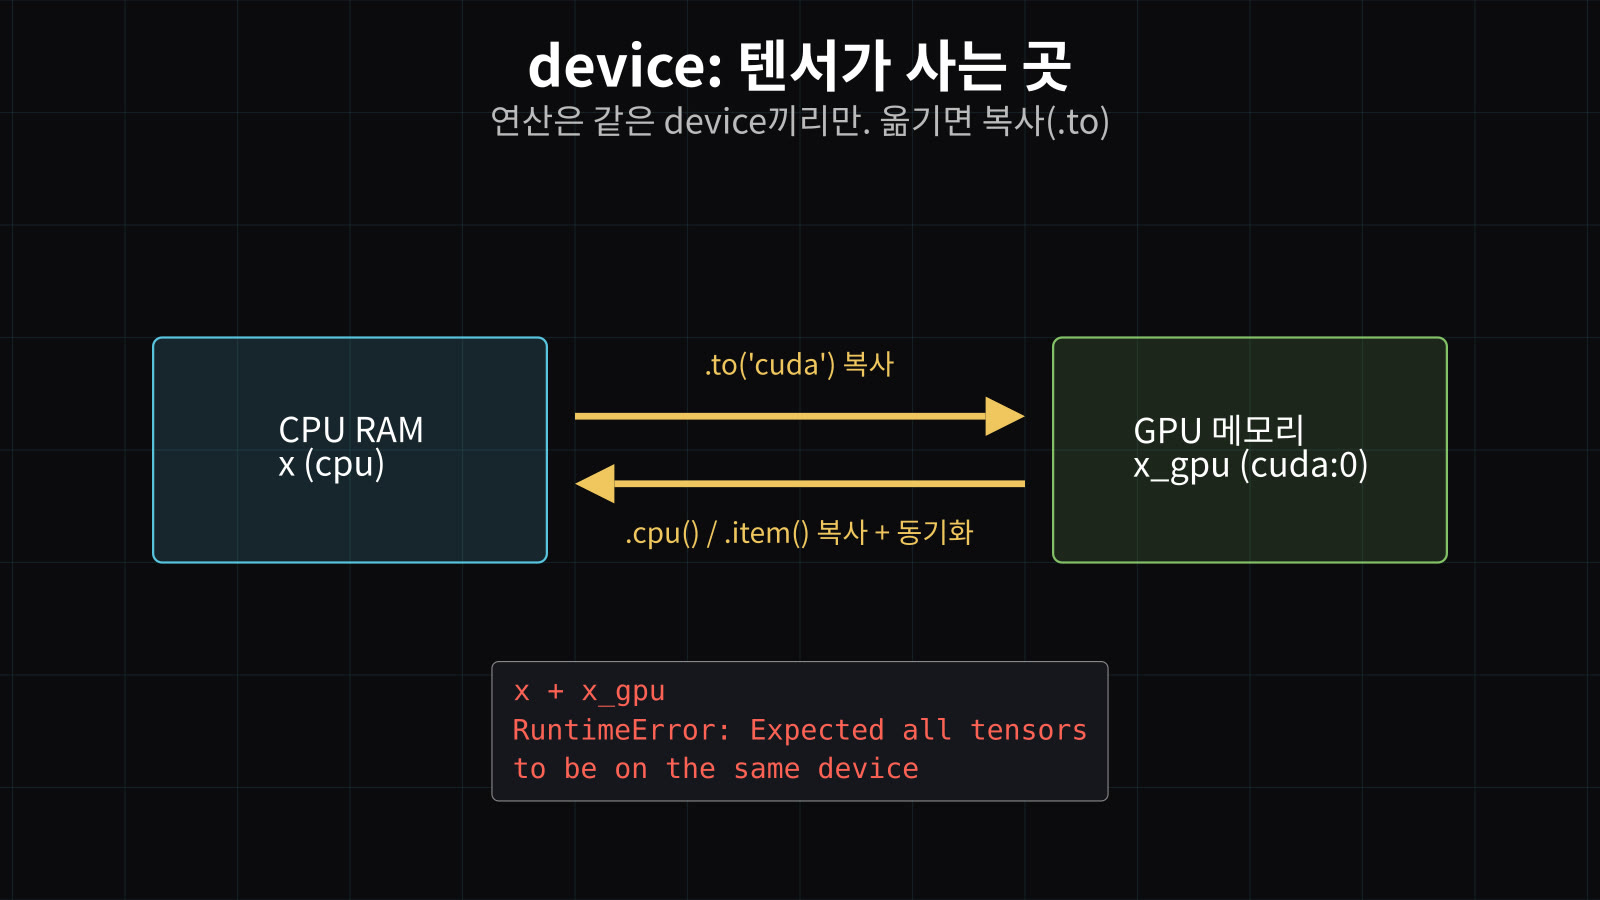
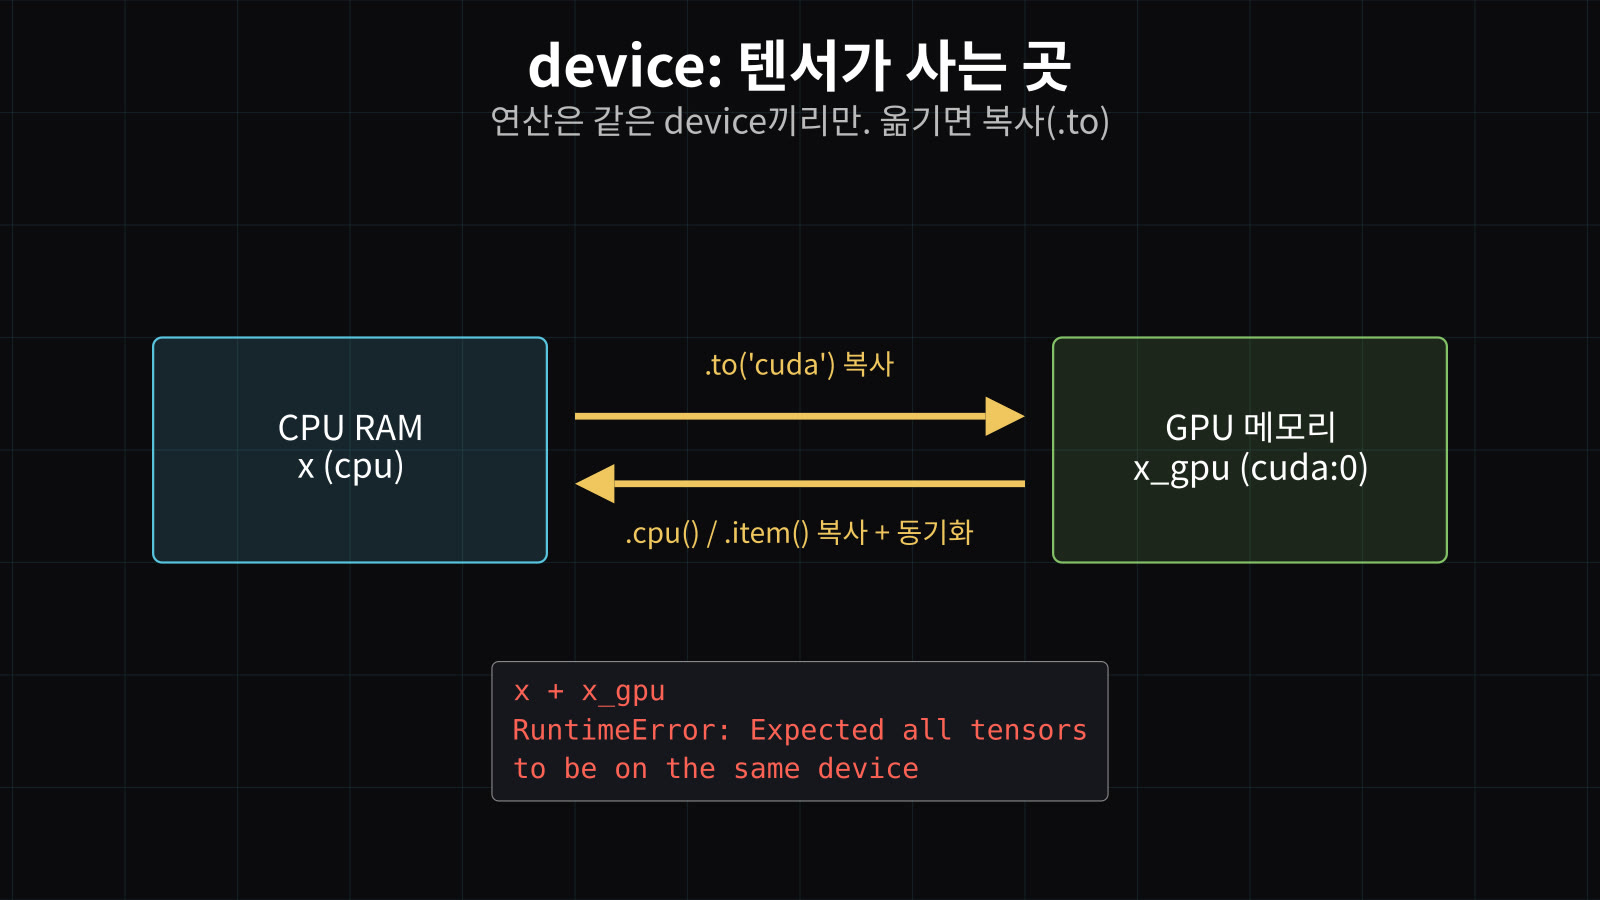
PyTorch series ch6-7, figure indentation fix, ch5 note

Changed region(s): [[0.6875, 0.4356, 0.875, 0.56], [0.1562, 0.4667, 0.2812, 0.5289]]

diff --git a/_posts/2026-10-25-pytorch-06-graph-capture.md b/_posts/2026-10-25-pytorch-06-graph-capture.md
@@ -1,0 +1,151 @@
+---
+layout: post
+title: "PyTorch 시리즈 6장 — 그래프 캡처: FX, Dynamo, torch.compile"
+date: 2026-10-25 21:06:00 +0900
+categories: [pytorch]
+tags: [pytorch, torch.compile, dynamo, fx]
+---
+
+> **PyTorch 시리즈** · [전체 목차](/blog/2026/10/25/pytorch-series/)  
+> ← 이전: [5. 커스텀 디바이스 백엔드 (PrivateUse1)](/blog/2026/10/25/pytorch-05-privateuse1/)  
+> → 다음: [7. torch.export와 Core ATen IR](/blog/2026/10/25/pytorch-07-torch-export/)
+
+> 이 글의 예제 코드 전체: [kjoh94/pytorch-series-examples/tree/main/06-graph-capture](https://github.com/kjoh94/pytorch-series-examples/tree/main/06-graph-capture) (`python example.py`)
+
+지금까지의 PyTorch는 **eager 모드**였다. 파이썬이 한 줄을 읽으면 그 즉시 커널 하나가 돈다. 쉽고 디버깅하기 좋지만, 컴파일러 입장에서는 "다음에 무엇이 올지" 모른 채 한 걸음씩 걷는 셈이다. 이 장은 모델을 **그래프로 붙잡는(capture)** 방법을 다룬다. FX → Dynamo → `torch.compile` → 내 백엔드 순서로 간다.
+
+## 1. eager vs 그래프
+
+![eager vs graph](/assets/img/posts/2026-10-25-pytorch-06-graph-capture/fig01.jpg)
+
+**그림 1.** 왼쪽 eager는 op 하나 = 커널 하나. 파이썬 분기, print, 디버거가 전부 자연스럽게 동작한다. 오른쪽 그래프는 **op 목록을 미리 받는다.** 그러면 컴파일러는 `relu(x)+1`을 커널 하나로 합치거나(fusion), 메모리를 미리 계획하거나, 다른 장치용 코드를 만들 수 있다. 대가는 "프로그램을 그래프로 표현할 수 있어야 한다"는 제약이다.
+
+## 2. FX Graph: 파이썬으로 된 IR
+
+![FX graph](/assets/img/posts/2026-10-25-pytorch-06-graph-capture/fig02.jpg)
+
+**그림 2.** FX 그래프의 노드는 딱 6종이다: `placeholder`(입력), `get_attr`(파라미터), `call_function`, `call_method`, `call_module`, `output`. 그래프와 함께 **그래프를 그대로 실행하는 파이썬 코드**가 생성된다. 그래서 그래프를 고치고 `recompile()`하면 바로 실행 가능한 모듈이 된다 — 그래프 변환 패스의 기본 단위다.
+
+```python
+import torch
+from torch.fx import symbolic_trace
+
+class M(torch.nn.Module):
+    def forward(self, x):
+        return torch.relu(x) + 1
+
+gm = symbolic_trace(M())
+print(gm.graph)        # placeholder → call_function relu → add → output
+print(gm.code)         # 그래프에서 다시 생성된 파이썬 코드
+
+# 그래프 고치기: relu 를 sigmoid 로 바꾸는 작은 패스
+for node in gm.graph.nodes:
+    if node.op == "call_function" and node.target is torch.relu:
+        node.target = torch.sigmoid
+gm.recompile()
+print(gm(torch.zeros(2)))   # sigmoid(0)+1 = 1.5
+```
+
+## 3. symbolic_trace의 한계
+
+![symbolic_trace limits](/assets/img/posts/2026-10-25-pytorch-06-graph-capture/fig03.jpg)
+
+**그림 3.** `symbolic_trace`는 진짜 텐서 대신 **Proxy**(값이 없는 가짜)를 넣고 한 번 실행한다. 그런데 `if x.sum() > 0`처럼 *값*에 따라 갈리는 분기를 만나면 Proxy는 True/False를 대답할 수 없다 → `TraceError`. 그래서 PyTorch 2는 한 단계 더 깊이, **파이썬 바이트코드 수준**에서 그래프를 잡는 Dynamo를 만들었다.
+
+```python
+def f(x):
+    if x.sum() > 0:
+        return x * 2
+    return x
+
+try:
+    symbolic_trace(f)
+except Exception as e:
+    print("FX 실패:", type(e).__name__)
+```
+
+## 4. torch.compile 파이프라인
+
+![compile pipeline](/assets/img/posts/2026-10-25-pytorch-06-graph-capture/fig04.jpg)
+
+**그림 4.** `torch.compile(model)`은 세 단계를 거친다. ① **Dynamo**: 함수가 실행되려는 순간(PEP 523 프레임 평가 훅) 바이트코드를 읽어 텐서 연산만 FX 그래프로 기록하고, 이 그래프가 유효한 조건(**guard**)을 함께 만든다. ② **AOTAutograd**: 미분 그래프까지 미리 만들고 ATen 수준으로 분해한다. ③ **백엔드**(기본은 Inductor): 실제 코드를 만든다. 형태 계산은 4장의 meta/FakeTensor로, 실제 계산 없이 한다.
+
+## 5. graph break: 그래프가 끊기는 곳
+
+![graph break](/assets/img/posts/2026-10-25-pytorch-06-graph-capture/fig05.jpg)
+
+**그림 5.** Dynamo는 모르는 것을 만나면 포기하지 않고 **그래프를 끊는다.** 앞부분을 그래프 1로 만들고, 문제 구간은 그냥 파이썬으로 돌리고, 다시 그래프 2를 시작한다. 결과는 늘 맞지만, 조각이 많을수록 최적화 여지가 사라진다. `dynamo.explain`으로 확인하자 — 아래 함수는 **그래프 3개, break 2개**가 나온다.
+
+```python
+import torch._dynamo as dynamo
+
+def g(x):
+    y = torch.sin(x)
+    if y.sum() > 0:      # 텐서 값에 의존하는 분기 → break
+        y = y * 2
+    print("hi")          # 파이썬 부수효과 → break
+    return torch.cos(y)
+
+e = dynamo.explain(g)(torch.randn(4))
+print("graphs:", e.graph_count, "breaks:", e.graph_break_count)
+for r in e.break_reasons:
+    print(" -", str(r.reason)[:70])
+```
+
+`torch.compile(model, fullgraph=True)`로 하면 break가 생길 때 에러를 내 준다. 배포용 모델이라면 이게 좋은 습관이다.
+
+## 6. guard와 재컴파일
+
+![guard](/assets/img/posts/2026-10-25-pytorch-06-graph-capture/fig06.jpg)
+
+**그림 6.** 컴파일된 그래프에는 "입력 shape가 (3,), dtype float32, 정수 인자 n=1…" 같은 **guard**가 붙는다. 다음 호출에서 guard가 통과하면 캐시된 그래프를 쓰고, 실패하면 다시 컴파일한다. 영리한 점: 두 번째로 달라지면 Dynamo가 "이 값은 변하는구나" 하고 **dynamic**(심볼)으로 일반화한다. 그래서 아래 두 실험 모두 4번 호출에 컴파일은 **2번**뿐이다.
+
+```python
+from torch._dynamo.testing import CompileCounter
+
+dynamo.reset(); c = CompileCounter()
+h = torch.compile(lambda x, n: x * n, backend=c)
+for n in [1, 2, 3, 4]:
+    h(torch.randn(3), n)
+print("int 인자 바뀜 → frames:", c.frame_count)    # 2
+
+dynamo.reset(); c = CompileCounter()
+h = torch.compile(lambda x: x * 2, backend=c)
+for s in [2, 3, 4, 5]:
+    h(torch.randn(s))
+print("shape 바뀜 → frames:", c.frame_count)       # 2
+```
+
+## 7. 내 컴파일러 백엔드 붙이기
+
+![custom backend](/assets/img/posts/2026-10-25-pytorch-06-graph-capture/fig07.jpg)
+
+**그림 7.** 백엔드는 생각보다 단순하다: **`(GraphModule, 예제 입력) → 호출 가능한 것`** 을 돌려주는 함수다. 받은 그래프를 출력해 보고, 패턴을 바꾸고, 자기 장치 코드를 만들어 돌려주면 된다. 아무것도 안 하고 `gm.forward`를 돌려주면 "그래프를 보기만 하는" 백엔드가 된다. 5장의 eager 장치 지원과 달리, 이 방식은 장치 메모리/텐서 없이도 컴파일러만으로 하드웨어를 붙일 수 있다.
+
+```python
+def my_backend(gm, example_inputs):
+    print("=== 받은 그래프 ===")
+    print(gm.graph)
+    return gm.forward          # 여기서 패턴 치환·융합·코드 생성을 하면 된다
+
+dynamo.reset()
+model = torch.nn.Sequential(torch.nn.Linear(4, 8), torch.nn.ReLU(), torch.nn.Linear(8, 2))
+cm = torch.compile(model, backend=my_backend)
+print(cm(torch.randn(3, 4)).shape)
+```
+
+## 정리
+
+- eager는 쉽고, 그래프는 빠르다. 그래프 캡처는 둘 사이의 다리다.
+- FX는 그래프 + 코드, 노드 6종. 값 의존 분기는 못 잡는다.
+- Dynamo는 바이트코드에서 잡고, 못 하면 graph break, 조건은 guard.
+- 백엔드 = GraphModule을 받아 함수를 돌려주는 함수.
+
+다음 장에서는 이 그래프를 **실행 시점이 아니라 미리, 통째로** 뽑아내는 `torch.export`를 본다.
+
+
+---
+
+> **PyTorch 시리즈** · [전체 목차](/blog/2026/10/25/pytorch-series/)  
+> ← 이전: [5. 커스텀 디바이스 백엔드 (PrivateUse1)](/blog/2026/10/25/pytorch-05-privateuse1/)  
+> → 다음: [7. torch.export와 Core ATen IR](/blog/2026/10/25/pytorch-07-torch-export/)

diff --git a/_posts/2026-10-25-pytorch-07-torch-export.md b/_posts/2026-10-25-pytorch-07-torch-export.md
@@ -1,0 +1,111 @@
+---
+layout: post
+title: "PyTorch 시리즈 7장 — torch.export와 ExportedProgram"
+date: 2026-10-25 21:07:00 +0900
+categories: [pytorch]
+tags: [pytorch, torch.export, aten]
+---
+
+> **PyTorch 시리즈** · [전체 목차](/blog/2026/10/25/pytorch-series/)  
+> ← 이전: [6. 그래프 캡처 — FX·Dynamo·graph break](/blog/2026/10/25/pytorch-06-graph-capture/)  
+> → 다음: [8. PyTorch → ONNX](/blog/2026/10/25/pytorch-08-onnx/)
+
+> 이 글의 예제 코드 전체: [kjoh94/pytorch-series-examples/tree/main/07-torch-export](https://github.com/kjoh94/pytorch-series-examples/tree/main/07-torch-export) (`python example.py`)
+
+6장의 `torch.compile`은 **실행하면서(JIT)** 그래프를 잡는다. 서버 학습에는 완벽하지만, 파이썬이 없는 기기에 모델을 보내거나 다른 컴파일러에 넘기려면 "**미리, 통째로, 한 번에**" 뽑힌 그래프가 필요하다. 그게 `torch.export`다.
+
+## 1. JIT vs AOT
+
+![JIT vs AOT](/assets/img/posts/2026-10-25-pytorch-07-torch-export/fig01.jpg)
+
+**그림 1.** `torch.compile`은 파이썬 런타임이 필요하고, graph break가 나도 파이썬으로 fallback해서 어떻게든 돈다. `torch.export`는 반대다. **graph break 없이 전체가 한 그래프여야** 하고, 안 되면 에러로 알려 준다. 그 대신 결과물은 파이썬 없이도 의미가 완결된 그래프 — ONNX, 모바일, AOTInductor의 입력이 된다.
+
+## 2. ExportedProgram 해부
+
+![ExportedProgram](/assets/img/posts/2026-10-25-pytorch-07-torch-export/fig02.jpg)
+
+**그림 2.** `export`의 결과 `ExportedProgram`은 네 부분이다: ATen op로 된 `graph_module`, 각 입력이 파라미터·버퍼·사용자 입력 중 무엇인지 적은 `graph_signature`, 실제 가중치 `state_dict`(2장), 그리고 동적 차원의 범위 `range_constraints`.
+
+```python
+import torch
+from torch.export import export, Dim
+
+lin = torch.nn.Linear(3, 2)
+ep = export(lin, (torch.randn(4, 3),))
+print(ep.graph_module.code)    # forward(self, p_weight, p_bias, input): aten.linear ...
+print(ep.graph_signature)      # 어떤 입력이 PARAMETER 이고 어떤 게 USER_INPUT 인지
+print(list(ep.state_dict.keys()))
+print(ep.module()(torch.randn(4, 3)).shape)   # 다시 실행 가능한 모듈로
+```
+
+## 3. 파라미터도 그래프 입력이 된다
+
+![functional](/assets/img/posts/2026-10-25-pytorch-07-torch-export/fig03.jpg)
+
+**그림 3.** 위 코드에서 생성된 `forward`를 보면 `self.weight`가 사라지고 `p_weight`, `p_bias`가 **인자로** 들어온다. 이런 그래프를 **함수형(functional)** 이라 한다 — 숨은 상태가 없고 모든 것이 입력이다. 그래서 가중치만 바꿔 끼우거나, 양자화해서 넣거나, 장치 메모리에 미리 올려두기가 쉽다. 그래프는 "자리"만 알고 값은 밖에 있다.
+
+## 4. IR 사다리
+
+![IR ladder](/assets/img/posts/2026-10-25-pytorch-07-torch-export/fig04.jpg)
+
+**그림 4.** export 직후의 그래프는 `aten.linear`처럼 큰 op를 그대로 둔다(Torch IR). `run_decompositions()`를 부르면 4장에서 본 분해 테이블로 **Core ATen IR**(~180 op: `addmm`, `permute` …)로 내려간다. 더 내리면 Prims. 백엔드 개발자에게 중요한 사실: **Core ATen만 구현하면 대부분의 모델이 돈다.**
+
+```python
+ep2 = ep.run_decompositions()
+print([str(n.target) for n in ep2.graph.nodes if n.op == "call_function"])
+# linear → permute + addmm 으로 분해됨
+```
+
+## 5. 동적 shape 선언
+
+![Dim](/assets/img/posts/2026-10-25-pytorch-07-torch-export/fig05.jpg)
+
+**그림 5.** 아무 말 안 하면 export는 예제 입력의 shape를 **상수로 고정**한다. 배치 크기 4로 export하면 8을 넣었을 때 에러다. `Dim`으로 "이 차원은 변한다"고 약속하면 그래프 안에 `s0` 같은 심볼이 들어간다. 만약 코드가 실제로는 특정 크기를 가정하고 있다면(예: `if x.shape[0]==8`), export가 약속 위반을 에러로 알려준다.
+
+```python
+model = torch.nn.Sequential(torch.nn.Linear(3, 8), torch.nn.ReLU(), torch.nn.Linear(8, 2))
+batch = Dim("batch", min=1, max=64)
+ep_dyn = export(model, (torch.randn(4, 3),), dynamic_shapes={"input": {0: batch}})
+print(ep_dyn.range_constraints)
+m = ep_dyn.module()
+for b in [1, 7, 33]:
+    print(b, m(torch.randn(b, 3)).shape)
+
+ep_static = export(model, (torch.randn(4, 3),))
+try:
+    ep_static.module()(torch.randn(8, 3))
+except Exception as e:
+    print("정적 export 에 배치 8 → 에러:", type(e).__name__)
+```
+
+## 6. ExportedProgram이 가는 곳
+
+![targets](/assets/img/posts/2026-10-25-pytorch-07-torch-export/fig06.jpg)
+
+**그림 6.** 한 번 뽑은 그래프는 여러 경로로 간다: `torch.onnx.export(..., dynamo=True)`(8장), AOTInductor로 `.so` 패키지, 모바일·엣지 런타임, 그리고 **내 컴파일러 백엔드**. 저장/로드도 된다.
+
+```python
+torch.export.save(ep_dyn, "mlp.pt2")
+loaded = torch.export.load("mlp.pt2")
+print(loaded.module()(torch.randn(5, 3)).shape)
+```
+
+## 7. TorchScript는 왜 저물었나
+
+![TorchScript](/assets/img/posts/2026-10-25-pytorch-07-torch-export/fig07.jpg)
+
+**그림 7.** 예전 방법인 TorchScript(`jit.trace`/`jit.script`)는 파이썬 부분집합 언어를 따로 정의해야 했고, trace는 분기를 조용히 고정해 버렸으며, 자체 IR이 ATen과 따로 놀았다. `torch.export`는 Dynamo로 진짜 파이썬을 읽고, 실패하면 이유를 말해 주고, 표준 ATen FX 그래프를 낸다. 새 코드는 export를 쓰자.
+
+## 정리
+
+- export = AOT, 전체 한 그래프, 실패는 에러.
+- ExportedProgram = 함수형 ATen 그래프 + signature + state_dict + 범위.
+- `run_decompositions()`로 Core ATen까지 내린다.
+- 동적 차원은 `Dim`으로 명시한다.
+
+
+---
+
+> **PyTorch 시리즈** · [전체 목차](/blog/2026/10/25/pytorch-series/)  
+> ← 이전: [6. 그래프 캡처 — FX·Dynamo·graph break](/blog/2026/10/25/pytorch-06-graph-capture/)  
+> → 다음: [8. PyTorch → ONNX](/blog/2026/10/25/pytorch-08-onnx/)

diff --git a/_posts/2026-10-25-pytorch-05-privateuse1.md b/_posts/2026-10-25-pytorch-05-privateuse1.md
@@ -86,7 +86,7 @@ print(torch._C._dispatch_has_kernel_for_dispatch_key("aten::add.Tensor", "Privat
 ```python
 from torch.utils._pytree import tree_map
 
-SUPPORTED = {"aten.add.Tensor", "aten.mul.Tensor", "aten.mm.default", "aten.t.default",
+SUPPORTED = {"aten.add.Tensor", "aten.gelu.default", "aten.native_layer_norm.default", "aten.mul.Tensor", "aten.mm.default", "aten.t.default",
              "aten.addmm.default", "aten.relu.default", "aten.detach.default"}
 stats = {"device": 0, "fallback": 0}
 
@@ -146,7 +146,7 @@ class OpCount(TorchDispatchMode):
 model = torch.nn.Sequential(torch.nn.Linear(32, 64), torch.nn.GELU(), torch.nn.LayerNorm(64),
                             torch.nn.Linear(64, 10), torch.nn.Softmax(-1)).eval()
 inp = torch.randn(2, 32)
-with torch.inference_mode(), OpCount() as oc:
+with torch.no_grad(), OpCount() as oc:
     model(inp)
 # 참고: nn.TransformerEncoderLayer 는 추론 시 '_transformer_encoder_layer_fwd' 같은
 # 융합 op 하나로 내려가기도 한다 — 백엔드 입장에선 그 op도 커버하거나 분해시켜야 한다
